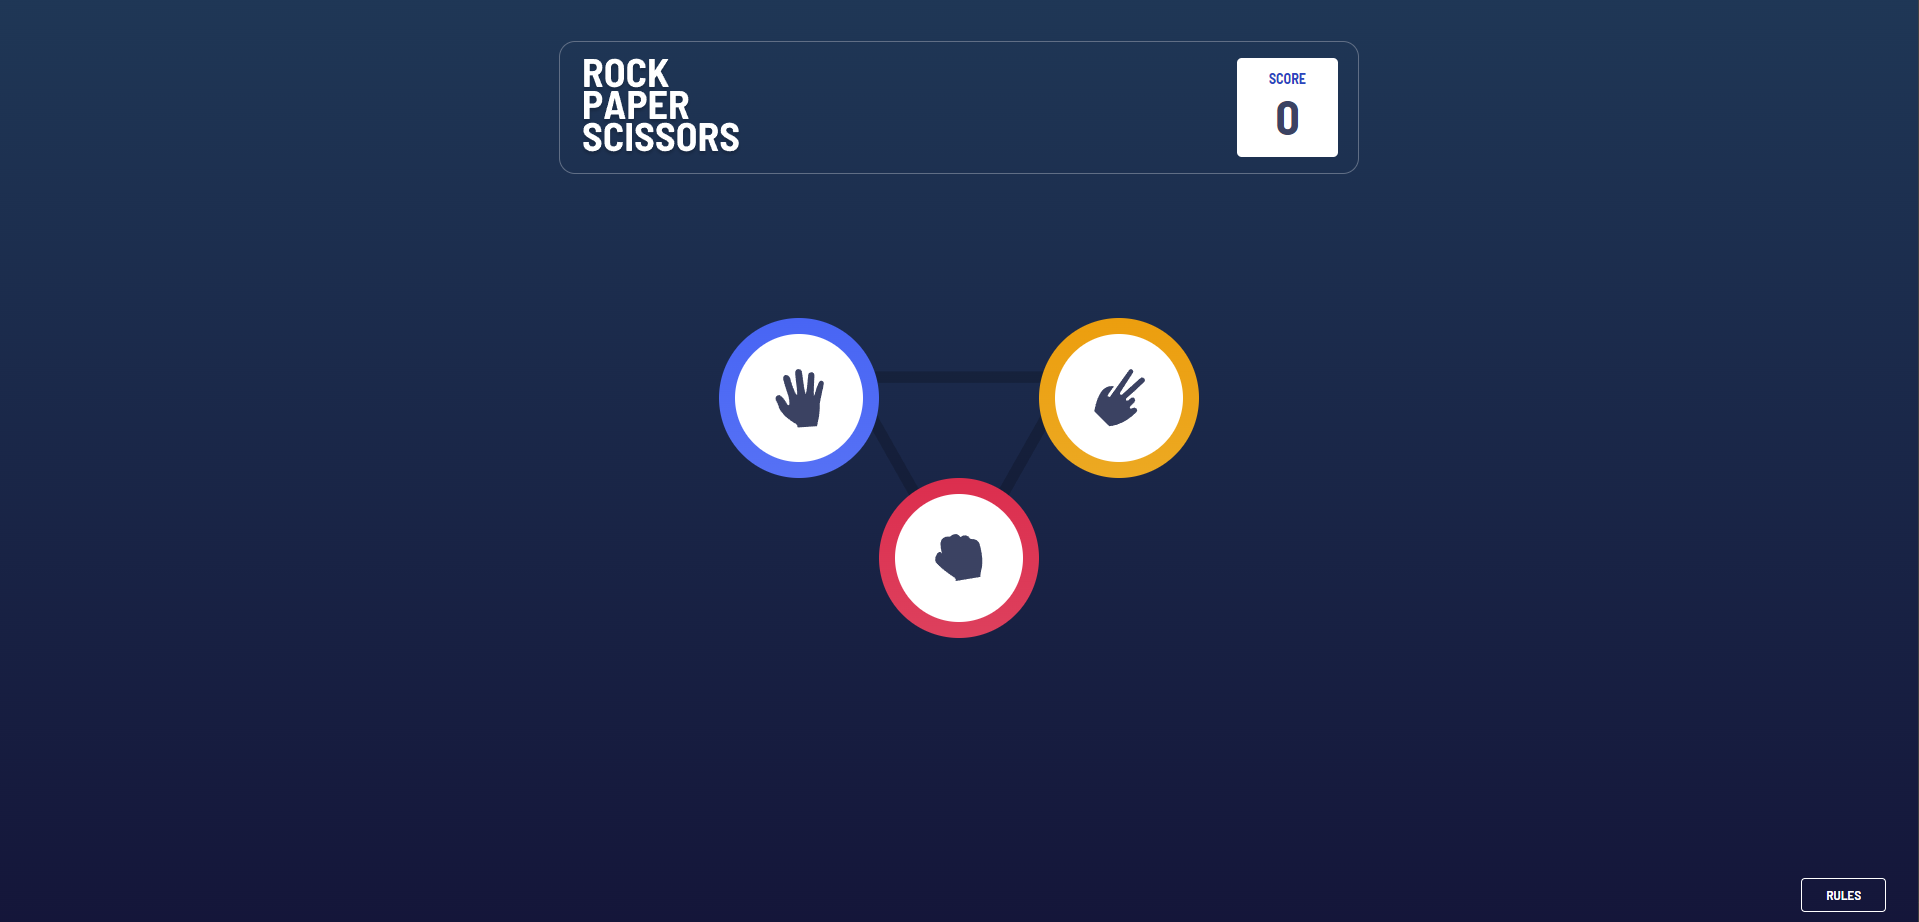
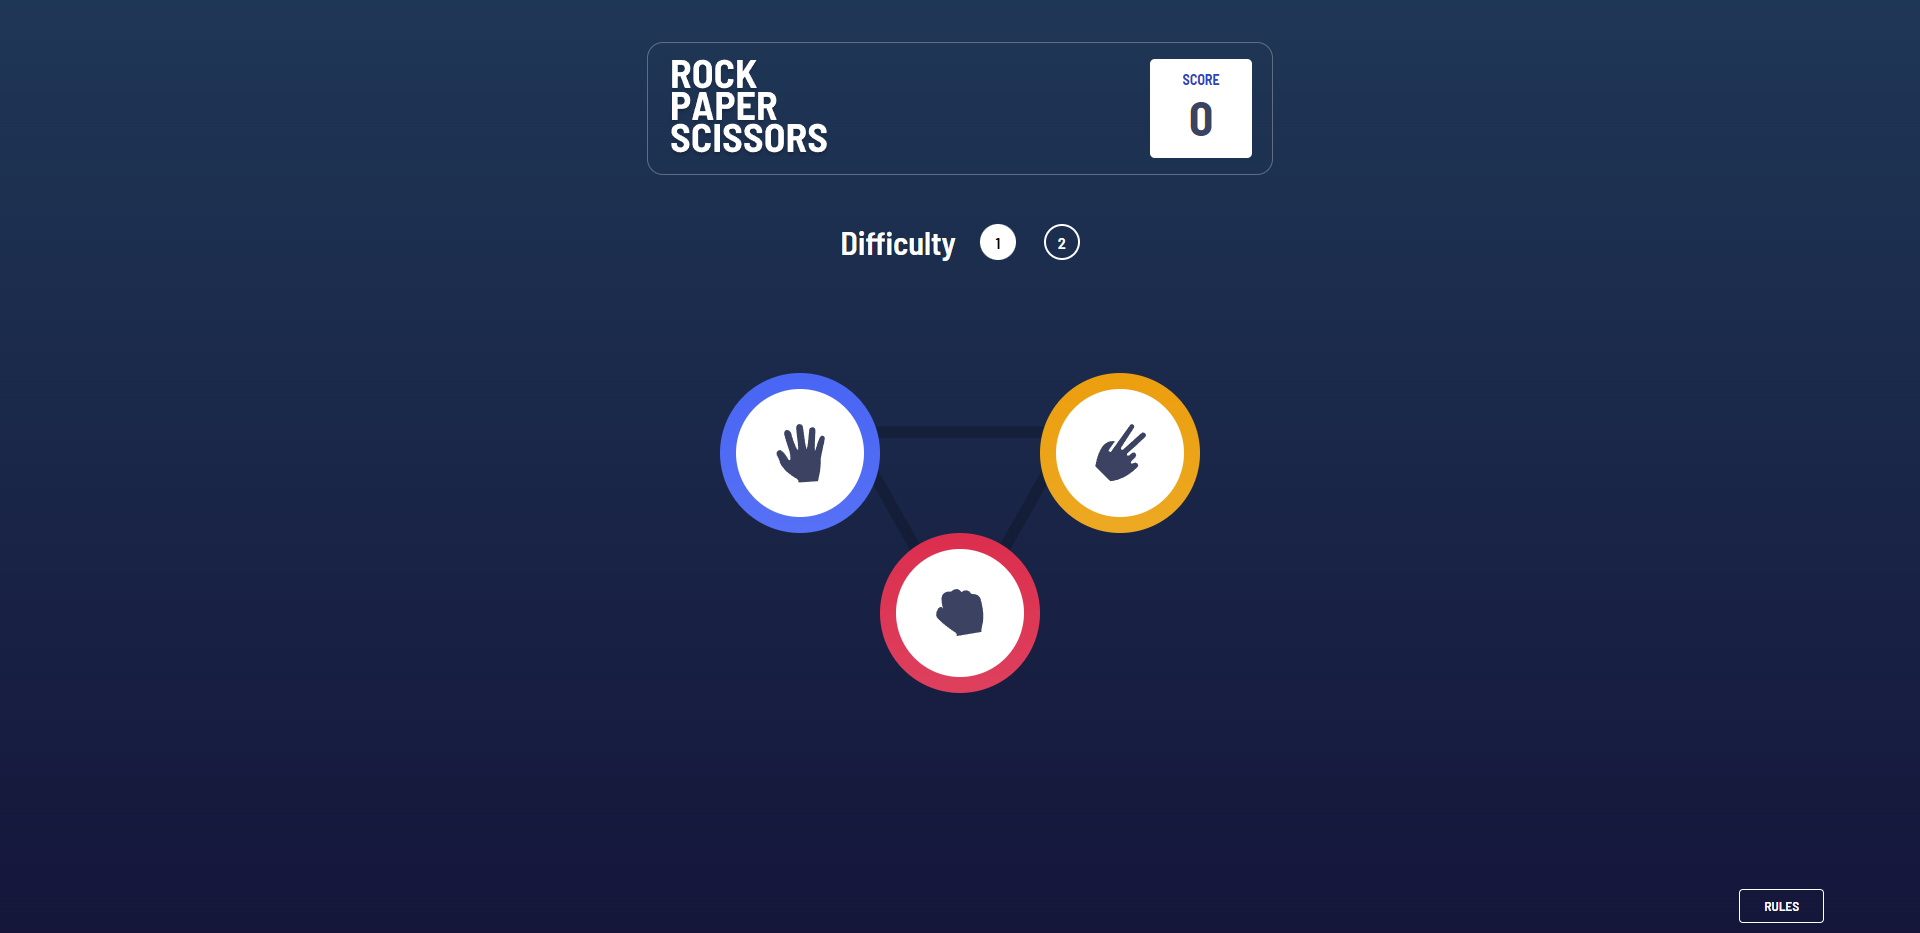
.

diff --git a/12 - Rock Paper Scissors/CSS/style.css b/12 - Rock Paper Scissors/CSS/style.css
@@ -138,9 +138,9 @@ body {
 }
 
 
-/****************/
-/* Game Section */
-/****************/
+/**************************/
+/*  Original Game Section */
+/**************************/
 .original-game-section {
     padding: 6rem 0;
     display: block;
@@ -220,6 +220,90 @@ body {
 
 .original-game-container .rock-container {
     grid-column-start: 2;
+}
+
+/**************************/
+/*  Bonus Game Section */
+/**************************/
+
+.bonus-game-section {
+    padding: 4rem 0;
+    display: none;
+}
+
+.difficulty-hard .bonus-game-section {
+    display: block;
+}
+
+.game-finished .bonus-game-section {
+    display: none;
+}
+
+.bonus-game-container {
+    max-width: 30rem;
+    margin: 0 auto;
+    padding: 0 1rem;
+    background-image: url('../Images/bg-pentagon.svg');
+    background-position: center center;
+    background-repeat: no-repeat;
+    background-size: 60%;
+}
+
+.row1 {
+    display: flex;
+    justify-content: center;
+}
+
+.row2 {
+    display: flex;
+    justify-content: space-between;
+    margin-bottom: 2rem;
+}
+
+.row3 {
+    display: flex;
+    justify-content: space-evenly;
+}
+
+.bonus-game-container .logo-container {
+    width: 9rem;
+    height: 9rem;
+}
+
+.bonus-game-container .logo-container::before {
+    width: 7rem;
+    height: 7rem;
+}
+
+.spock-container {
+    background: var(--cyan)
+}
+
+.lizard-container {
+    background: var(--lizard-gradient);
+}
+
+.bonus-game-container .scissors-container {
+    grid-column-start: 3;
+}
+
+.bonus-game-container .spock-container {
+    grid-row-start: 2;
+}
+
+.bonus-game-container .paper-container {
+    grid-row-start: 2;
+    grid-column-start: 5;
+}
+
+.bonus-game-container .lizard-container {
+    grid-row-start: 3;
+    grid-column-start: 2;
+}
+
+.bonus-game-container .rock-container {
+    grid-row-start: 3;
+    grid-column-start: 4;
 }
 
 /************************/
@@ -339,6 +423,11 @@ body {
 }
 
 .close-icon {
+    border: none;
+    background: transparent;
+}
+
+.close-icon img {
     height: 1.5rem
 }
 
@@ -354,67 +443,3 @@ body {
     opacity: 0.5;
 }
 
-/**************************/
-/* Media - section styling*/
-/**************************/
-
-@media (max-width: 50em) {
-    .header-container {
-        gap: 10rem;
-    }
-}
-
-@media (max-width: 37.5em) {
-    .header {
-        padding: 2rem 1rem;
-    }
-
-    .header-container {
-        gap: 3rem;
-    }
-
-    .original-game-section {
-        padding: 3rem 0;
-    }
-
-    .logo-container {
-        width: 7.25rem;
-        height: 7.25rem;
-    }
-
-    .logo-container::before {
-        width: 5.25rem;
-        height: 5.25rem;
-    }
-
-    .result-container {
-        grid-template-columns: 1fr 1fr;
-        row-gap: 3rem;
-    }
-
-    .result-box {
-        grid-row-start: 2;
-        grid-column: span 2;
-    }
-
-    .rules-button {
-        left: 50%;
-        transform: translateX(-50%);
-        width: 6rem;
-    }
-
-    .rules-content {
-        inset: 0;
-        transform: translate(0, 0);
-        width: 100%;
-        height: 100%;
-    }
-
-    .rules-image-box img {
-        position: absolute;
-        top: 50%;
-        left: 50%;
-        transform: translate(-50%, -50%);
-        padding: 0;
-    }
-}

diff --git a/12 - Rock Paper Scissors/CSS/media-queries.css b/12 - Rock Paper Scissors/CSS/media-queries.css
@@ -1,0 +1,131 @@
+/* Below 600 pixels*/
+
+@media (max-width: 50em) {
+    .header-container {
+        gap: 10rem;
+    }
+}
+
+@media (max-width: 37.5em) {
+    .header {
+        padding: 2rem 0.5rem;
+    }
+
+    .header-container {
+        gap: 2rem;
+    }
+
+    .bonus-game-section{
+        padding: 4rem 0 6rem 0;
+    }
+
+    .original-game-section {
+        padding: 4rem 2rem 8rem 2rem;
+    }
+
+    .original-game-container {
+        background-position: center;
+    }
+
+    .logo-container {
+        width: 8rem !important;
+        height: 8rem !important;
+    }
+
+    .logo-container::before {
+        width: 6rem !important;
+        height: 6rem !important;
+    }
+
+    .row2 {
+        margin-bottom: 1.5rem;
+    }
+
+    .result-container {
+        grid-template-columns: 1fr 1fr;
+        row-gap: 3rem;
+    }
+
+    .result-box {
+        grid-row-start: 2;
+        grid-column: span 2;
+    }
+
+    .rules-button {
+        left: 50%;
+        transform: translateX(-50%);
+        width: 6rem;
+    }
+
+    .rules-content {
+        inset: 0;
+        transform: translate(0, 0);
+        width: 100%;
+        height: 100%;
+    }
+
+    .close-icon {
+        position: absolute;
+        bottom: 3.5%;
+        left: 50%;
+        transform: translateX(-50%);
+    }
+
+    .rules-heading {
+        position: absolute;
+        left: 50%;
+        top: 10%;
+        transform: translateX(-50%);
+    }
+
+    .rules-image-box img {
+        position: absolute;
+        top: 50%;
+        left: 50%;
+        transform: translate(-50%, -50%);
+        padding: 1rem 1.75rem;
+    }
+
+    .score {
+        font-size: var(--fontSize32);
+    }
+}
+
+/* Below 448 pixels*/
+
+@media (max-width: 28em) {
+    .original-game-section {
+        padding-inline: 0.75rem;
+    }
+
+    .header {
+        padding-inline: 1rem;
+    }
+
+    .header-container {
+        gap: 1rem;
+    }
+
+    .score-container {
+        padding: 0.25rem 1rem;
+    }
+
+    .logo-container {
+        width: 5.75rem !important;
+        height: 5.75rem !important;
+    }
+
+    .logo-container img {
+        width: 40%;
+    }
+
+    .logo-container::before {
+        width: 4.25rem !important;
+        height: 4.25rem !important;
+    }
+
+    .pick-text {
+        font-size: var(--fontSize16);
+    }
+
+}

diff --git a/12 - Rock Paper Scissors/index.html b/12 - Rock Paper Scissors/index.html
@@ -5,7 +5,7 @@
     <meta name="viewport" content="width=device-width, initial-scale=1.0">
     <link rel="icon" type="image/png" sizes="32x32" href="Images/favicon-32x32.png">
     <link rel="stylesheet" href="CSS/style.css">
-    <link rel="stylesheet" href="CSS/bonus-game.css">
+    <link rel="stylesheet" href="CSS/media-queries.css">
     <title>Frontend Mentor | Rock, Paper, Scissors</title>
 </head>
 <body>
@@ -75,7 +75,7 @@
     <div class="rules-content">
         <div class="rules-header">
             <h1 class="rules-heading">Rules</h1>
-            <img src="Images/icon-close.svg" alt="close icon" class="close-icon">
+            <button class="close-icon"><img src="Images/icon-close.svg" alt="close icon"></button>
         </div>
         <figure class="rules-image-box">
             <img src="Images/image-rules.svg" alt="Rules image" class="rules-image">

diff --git a/12 - Rock Paper Scissors/README.md b/12 - Rock Paper Scissors/README.md
@@ -1,4 +1,4 @@
-# Rock Paper Scissors Game
+# Frontend Mentor - Rock Paper Scissors
 
 ### Screenshot
 
@@ -6,11 +6,16 @@
 
 ### Links
 
-- Live Site URL: [https://rock-paper-scissors-10.vercel.app/]
+- Live Site URL: [https://sunnyside-agency-landing-page-10.netlify.app/]
 
 ### Built with
 
 - Semantic HTML5 markup
 - CSS Grid
+- CSS Flexbox
 - Vanilla Javascript
+
+## Author
+- Frontend Mentor - [@krutagna10](https://www.frontendmentor.io/profile/krutagna10)
+
 
